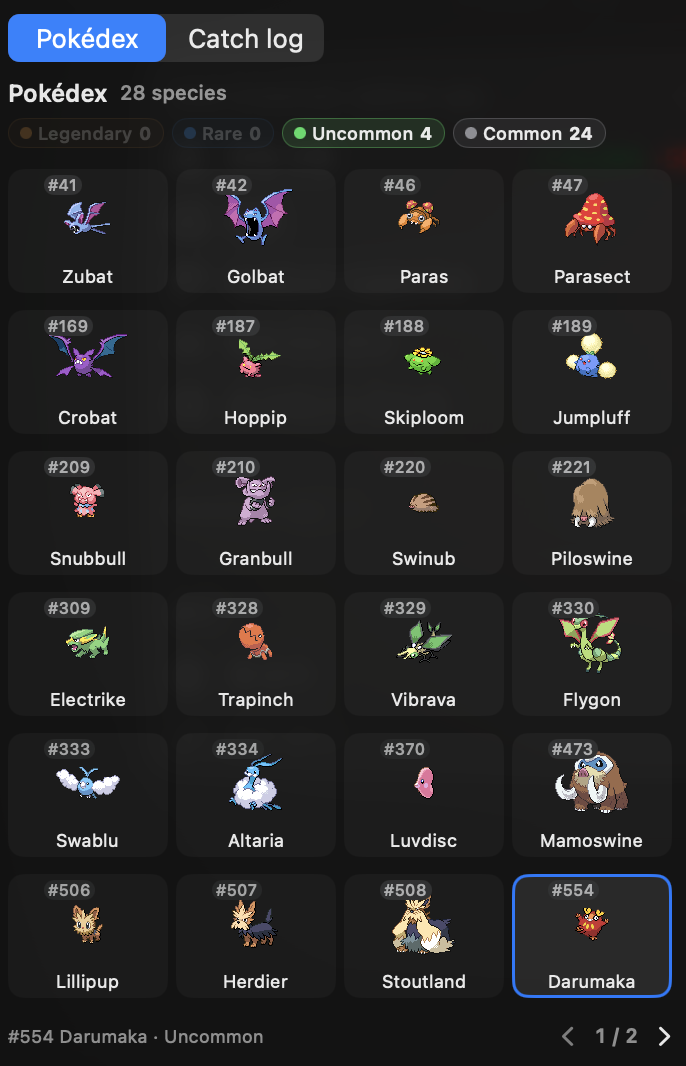
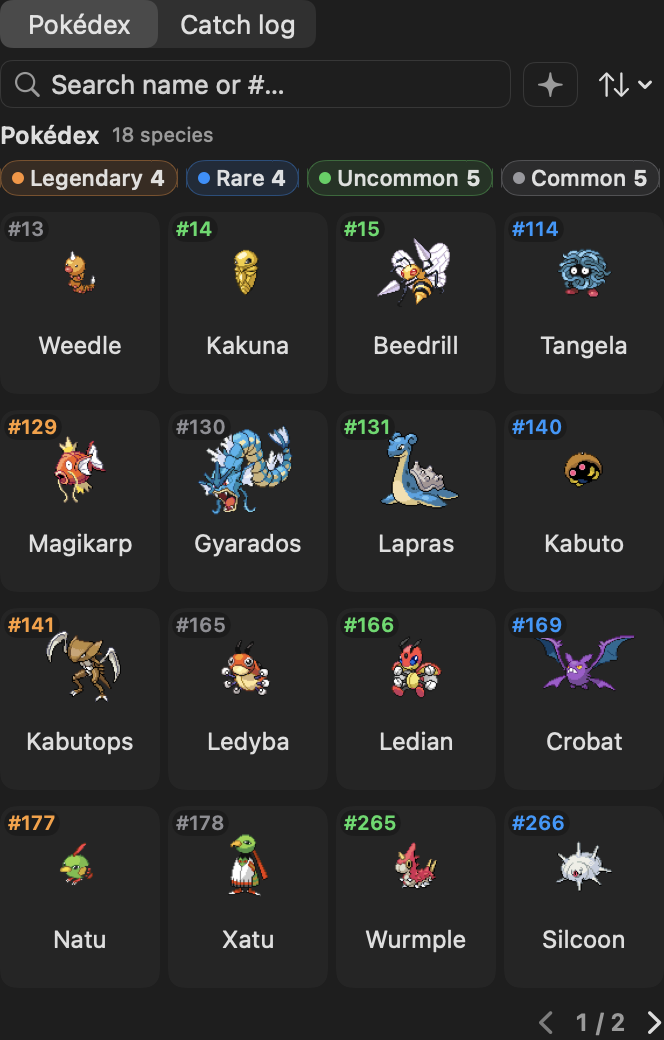
landing: update release 2.5.5 features and screenshots

diff --git a/index.html b/index.html
@@ -54,11 +54,11 @@ try { var savedTheme=localStorage.getItem('ptb-theme'); if(savedTheme==='dark'||
 <div class="feature-story"><div class="feature-copy"><h2 data-i18n="usage.title" >Less checking.<br>More coding.</h2><p data-i18n="usage.desc" >Today’s tokens, usage trends and provider limits live together. Open the menu bar when you need the details; keep working when you don’t.</p><h3 data-i18n="usage.limits" >See the reset coming</h3><p data-i18n="usage.limitsDesc" >Official limits for Claude, Codex and Antigravity, with reset timing and optional notifications.</p></div>
 <figure class="feature-media"><img src="assets/screenshot-daily-trend.png" width="720" height="355" loading="lazy" data-i18n-alt="alt.trend" alt="Example daily token usage chart"><img src="assets/screenshot-quota-alignment.png" width="720" height="300" loading="lazy" data-i18n-alt="alt.quota" alt="Example provider limits and reset timing"><figcaption data-i18n="usage.caption" >Daily trends and official usage limits. Example screens.</figcaption></figure></div>
 
-<details class="all-features"><summary><span data-i18n="features.more" >Explore the details</span></summary><div class="feature-list"><article><h3 data-i18n="s5.t">Earn Rare Candy</h3><p data-i18n="s5.d">Fill a 5-hour or weekly limit to earn Rare Candy. Use it from the Bag to grow your partner.</p></article><article><h3 data-i18n="f7.t" >Token Shop</h3><p data-i18n="f7.d" >Use tokens you’ve already spent to get Rare Candy, nature-changing Mints, a Shiny Charm or a new egg.</p></article><article><h3 data-i18n="f9.t" >Representative Pokémon</h3><p data-i18n="f9.d" >Pin an owned species to the menu bar and desktop pet. Your current partner keeps growing in Home.</p></article><article><h3 data-i18n="f15.t" >Individual Pokémon profiles</h3><p data-i18n="f15.d" >Get to know each Pokémon’s individual values, ability and moves in its profile.</p></article><article><h3 data-i18n="f1.t" >Live token usage</h3><p data-i18n="f1.d" >See the total from your supported tools in the menu bar. Open the popover for a breakdown by provider.</p></article><article><h3 data-i18n="f2.t" >Official limits</h3><p data-i18n="f2.d" >Claude, Codex and Antigravity limits with reset countdowns and clock times. Choose used or remaining; percentages stay aligned with matching progress bars.</p></article><article><h3 data-i18n="f3.t" >Burn-rate forecast</h3><p data-i18n="f3.d" >Estimate when your current 5-hour window will reach 100%, based on your current usage rate.</p></article><article><h3 data-i18n="f5.t" >Localized</h3><p data-i18n="f5.d" >Seven UI languages. Pokémon, type, ability and move names follow your selected language, with English when a translation is unavailable.</p></article><article><h3 data-i18n="f6.t" >Notifications</h3><p data-i18n="f6.d" >Choose alerts for approaching usage limits, hatching, evolution and graduation.</p></article><article><h3 data-i18n="f10.t" >Additional scan folders</h3><p data-i18n="f10.d" >Add per-provider scan folders when your logs live outside the default locations. Wildcards and a live match count help you find them.</p></article><article><h3 data-i18n="f11.t" >Official limits without the Keychain</h3><p data-i18n="f11.d" >Use a claude.ai session key in Settings → Advanced to read official Claude limits without Keychain prompts.</p></article><article><h3 data-i18n="f12.t" >Per-model breakdown</h3><p data-i18n="f12.d" >Pi usage follows the model recorded for each turn. The popover breaks today&#x27;s Pi tokens down by model, biggest first.</p></article><article><h3 data-i18n="f13.t" >This month, day by day</h3><p data-i18n="f13.d" >See this month’s daily token totals across all tools in the popover. Hover a bar for that day’s usage.</p></article><article><h3 data-i18n="f14.t" >Growth at your pace</h3><p data-i18n="f14.d" >Set difficulty from 10% to 200% and apply it with Save. Your earned progress is preserved. Hatches from a previously graduated base species grow twice as fast.</p></article></div></details>
+<details class="all-features"><summary><span data-i18n="features.more" >Explore the details</span></summary><div class="feature-list"><article><h3 data-i18n="f16.t">A clearer collection</h3><p data-i18n="f16.d">Browse 16 Pokémon per page in a 4 × 4 Pokédex with larger sprites and names. Search, sort, and filter by rarity or Shiny status.</p></article><article><h3 data-i18n="f17.t">Your usage recap</h3><p data-i18n="f17.d">Review token usage and companion milestones by week, month, or year.</p><figure><img src="assets/screenshot-usage-recap.png" width="720" height="680" loading="lazy" data-i18n-alt="alt.recap" alt="Example weekly recap with token usage and an Unown graduation"><figcaption data-i18n="demo.provenance">Example screen · English</figcaption></figure></article><article><h3 data-i18n="f18.t">Back up your progress</h3><p data-i18n="f18.d">Export a backup of your companion data and restore it when needed.</p></article><article><h3 data-i18n="f19.t">Multiple Claude accounts</h3><p data-i18n="f19.d">Track official Claude limits across multiple accounts from the same app.</p></article><article><h3 data-i18n="f20.t">See your usage pace</h3><p data-i18n="f20.d">Quota bar colors reflect your usage pace relative to the remaining time in the window.</p><figure><img src="assets/screenshot-pace-marker.png" width="720" height="238" loading="lazy" data-i18n-alt="alt.pace" alt="Example quota bar with the usage pace marker"><figcaption data-i18n="demo.provenance">Example screen · English</figcaption></figure></article><article><h3 data-i18n="f21.t">More ways to collect and grow</h3><p data-i18n="f21.d">Collect Unown forms and use multiple Rare Candies at once to grow your partner.</p></article><article><h3 data-i18n="s5.t">Earn Rare Candy</h3><p data-i18n="s5.d">Fill a 5-hour or weekly limit to earn Rare Candy. Use it from the Bag to grow your partner.</p></article><article><h3 data-i18n="f7.t" >Token Shop</h3><p data-i18n="f7.d" >Use tokens you’ve already spent to get Rare Candy, nature-changing Mints, a Shiny Charm or a new egg.</p></article><article><h3 data-i18n="f9.t" >Representative Pokémon</h3><p data-i18n="f9.d" >Pin an owned species to the menu bar and desktop pet. Your current partner keeps growing in Home.</p></article><article><h3 data-i18n="f15.t" >Individual Pokémon profiles</h3><p data-i18n="f15.d" >Get to know each Pokémon’s individual values, ability and moves in its profile.</p></article><article><h3 data-i18n="f1.t" >Live token usage</h3><p data-i18n="f1.d" >See the total from your supported tools in the menu bar. Open the popover for a breakdown by provider.</p></article><article><h3 data-i18n="f2.t" >Official limits</h3><p data-i18n="f2.d" >Claude, Codex and Antigravity limits with reset countdowns and clock times. Choose used or remaining; percentages stay aligned with matching progress bars.</p></article><article><h3 data-i18n="f3.t" >Burn-rate forecast</h3><p data-i18n="f3.d" >Estimate when your current 5-hour window will reach 100%, based on your current usage rate.</p></article><article><h3 data-i18n="f5.t" >Localized</h3><p data-i18n="f5.d" >Seven UI languages. Pokémon, type, ability and move names follow your selected language, with English when a translation is unavailable.</p></article><article><h3 data-i18n="f6.t" >Notifications</h3><p data-i18n="f6.d" >Choose alerts for approaching usage limits, hatching, evolution and graduation.</p></article><article><h3 data-i18n="f10.t" >Additional scan folders</h3><p data-i18n="f10.d" >Add per-provider scan folders when your logs live outside the default locations. Wildcards and a live match count help you find them.</p></article><article><h3 data-i18n="f11.t" >Official limits without the Keychain</h3><p data-i18n="f11.d" >Use a claude.ai session key in Settings → Advanced to read official Claude limits without Keychain prompts.</p></article><article><h3 data-i18n="f12.t" >Per-model breakdown</h3><p data-i18n="f12.d" >Pi usage follows the model recorded for each turn. The popover breaks today&#x27;s Pi tokens down by model, biggest first.</p></article><article><h3 data-i18n="f13.t" >This month, day by day</h3><p data-i18n="f13.d" >See this month’s daily token totals across all tools in the popover. Hover a bar for that day’s usage.</p></article><article><h3 data-i18n="f14.t" >Growth at your pace</h3><p data-i18n="f14.d" >Set difficulty from 10% to 200% and apply it with Save. Your earned progress is preserved. Hatches from a previously graduated base species grow twice as fast.</p></article></div></details>
 </div></section>
 <section class="section companion" id="companion"><div class="wrap">
 <div class="companion-layout"><div><h2 data-i18n="comp.title" >A workday,<br>with a side quest.</h2><p data-i18n="comp.desc" class="muted" style="margin-top:var(--space-md)">Your existing token usage raises a partner through its real evolution line. Then a new egg arrives, and the collection grows.</p><ol class="journey"><li><div><h3 data-i18n="journey.hatch" >Hatch your first partner</h3><p data-i18n="journey.hatchDesc" >An egg hatches after 5M tokens at the default difficulty. Which Pokémon will it be?</p></div></li><li><div><h3 data-i18n="journey.grow" >Watch it grow</h3><p data-i18n="journey.growDesc" >Keep coding to evolve. Adjust difficulty to suit your own pace.</p></div></li><li><div><h3 data-i18n="journey.collect" >Keep the memories</h3><p data-i18n="journey.collectDesc" >Graduated partners stay in your collection. A fresh egg starts the next chapter.</p></div></li></ol></div>
-<figure class="collection-figure"><img src="assets/screenshot-collection-pokedex.png" width="686" height="1066" loading="lazy" data-i18n-alt="alt.collection" alt="Example Pokédex showing collected species"><figcaption data-i18n="comp.caption" >Every partner has a place in your Pokédex. Example screen.</figcaption></figure></div>
+<figure class="collection-figure"><img src="assets/screenshot-collection-pokedex.png" width="664" height="1040" loading="lazy" data-i18n-alt="alt.collection" alt="Example Pokédex showing collected species"><figcaption data-i18n="comp.caption" >Every partner has a place in your Pokédex. Example screen.</figcaption></figure></div>
 <div class="pet-story"><figure><img id="pet-demo" src="assets/floating-pet-still.png" width="880" height="452" loading="lazy" data-i18n-alt="alt.pet" alt="Example floating desktop pet with usage callout"><figcaption data-i18n="demo.provenance">Example screen · English</figcaption><button id="demoBtn" class="btn btn-secondary demo-control js-only" aria-controls="pet-demo" aria-pressed="false"><span data-i18n="demo.play">Play demo</span></button></figure><div><h3 data-i18n="pet.title" >Or, right beside you.</h3><p data-i18n="pet.desc" >Let your partner out of the menu bar. Drag it anywhere, hover to check usage, and click to open the app.</p></div></div>
 </div></section>
 <section class="section" id="guide"><div class="wrap"><div class="guide-summary"><div><h2 data-i18n="guide.title" >Curious how it grows?</h2><p data-i18n="guide.desc" >Try your pace, check the costs, and see what you can collect. Too many tokens? Lower the difficulty in the app to grow with fewer tokens.</p></div></div>

diff --git a/app.js b/app.js
@@ -174,7 +174,21 @@ const I18N = {
     "alt.trend": "Example daily token usage chart",
     "alt.quota": "Example provider limits and reset timing",
     "alt.collection": "Example Pokédex showing collected species",
-    "alt.pet": "Example floating desktop pet with usage callout"
+    "alt.pet": "Example floating desktop pet with usage callout",
+    "f16.t": "A clearer collection",
+    "f16.d": "Browse 16 Pokémon per page in a 4 × 4 Pokédex with larger sprites and names. Search, sort, and filter by rarity or Shiny status.",
+    "f17.t": "Your usage recap",
+    "f17.d": "Review token usage and companion milestones by week, month, or year.",
+    "f18.t": "Back up your progress",
+    "f18.d": "Export a backup of your companion data and restore it when needed.",
+    "f19.t": "Multiple Claude accounts",
+    "f19.d": "Track official Claude limits across multiple accounts from the same app.",
+    "f20.t": "See your usage pace",
+    "f20.d": "Quota bar colors reflect your usage pace relative to the remaining time in the window.",
+    "f21.t": "More ways to collect and grow",
+    "f21.d": "Collect Unown forms and use multiple Rare Candies at once to grow your partner.",
+    "alt.recap": "Example weekly recap with token usage and an Unown graduation",
+    "alt.pace": "Example quota bar with the usage pace marker"
   },
   "ko": {
     "f13.t": "이번 달의 일별 사용량",
@@ -350,7 +364,21 @@ const I18N = {
     "alt.trend": "일별 토큰 사용량 차트 예시",
     "alt.quota": "프로바이더 한도와 리셋 시점 예시",
     "alt.collection": "수집한 포켓몬이 표시된 도감 예시",
-    "alt.pet": "사용량 말풍선이 표시된 바탕화면 펫 예시"
+    "alt.pet": "사용량 말풍선이 표시된 바탕화면 펫 예시",
+    "f16.t": "더 잘 보이는 컬렉션",
+    "f16.d": "커진 이미지와 이름으로 한 페이지에 16마리를 4 × 4 도감에서 확인하세요. 검색·정렬과 희귀도·이로치 필터를 지원합니다.",
+    "f17.t": "사용량 리캡",
+    "f17.d": "주·월·연도별 토큰 사용량과 파트너의 성장 기록을 돌아보세요.",
+    "f18.t": "성장 기록 백업",
+    "f18.d": "파트너 데이터를 백업 파일로 내보내고 필요할 때 복원하세요.",
+    "f19.t": "여러 Claude 계정",
+    "f19.d": "하나의 앱에서 여러 Claude 계정의 공식 사용 한도를 확인하세요.",
+    "f20.t": "사용 속도를 색으로 확인",
+    "f20.d": "한도 막대 색상이 해당 구간의 남은 시간 대비 사용 속도를 보여줍니다.",
+    "f21.t": "더 다양한 수집과 성장",
+    "f21.d": "안농의 여러 모습을 수집하고 이상한 사탕을 한 번에 여러 개 사용해 파트너를 키우세요.",
+    "alt.recap": "토큰 사용량과 안농 졸업 기록을 보여주는 주간 리캡 예시",
+    "alt.pace": "사용 속도 마커가 표시된 한도 막대 예시"
   },
   "ja": {
     "f13.t": "今月の日別使用量",
@@ -526,7 +554,21 @@ const I18N = {
     "alt.trend": "日別トークン使用量グラフの例",
     "alt.quota": "プロバイダーの上限とリセット時刻の例",
     "alt.collection": "集めたポケモンを表示した図鑑の例",
-    "alt.pet": "使用量の吹き出しを表示したデスクトップペットの例"
+    "alt.pet": "使用量の吹き出しを表示したデスクトップペットの例",
+    "f16.t": "見やすくなったコレクション",
+    "f16.d": "大きくなった画像と名前で、1ページ16匹の4 × 4図鑑を表示。検索・並べ替えと、レア度・色違いの絞り込みに対応します。",
+    "f17.t": "使用量の振り返り",
+    "f17.d": "週・月・年ごとのトークン使用量とパートナーの成長記録を振り返りましょう。",
+    "f18.t": "成長記録をバックアップ",
+    "f18.d": "パートナーのデータをバックアップファイルに書き出し、必要なときに復元できます。",
+    "f19.t": "複数のClaudeアカウント",
+    "f19.d": "一つのアプリで複数のClaudeアカウントの公式使用上限を確認できます。",
+    "f20.t": "使用ペースを色で確認",
+    "f20.d": "上限バーの色で、ウィンドウの残り時間に対する使用ペースを確認できます。",
+    "f21.t": "さらに集めて育てる",
+    "f21.d": "アンノーンの姿を集めたり、ふしぎなアメをまとめて使ってパートナーを育てたりできます。",
+    "alt.recap": "トークン使用量とアンノーンの卒業記録を表示した週間リキャップの例",
+    "alt.pace": "使用ペースのマーカーを表示した上限バーの例"
   }
 };
 const root = document.documentElement;
